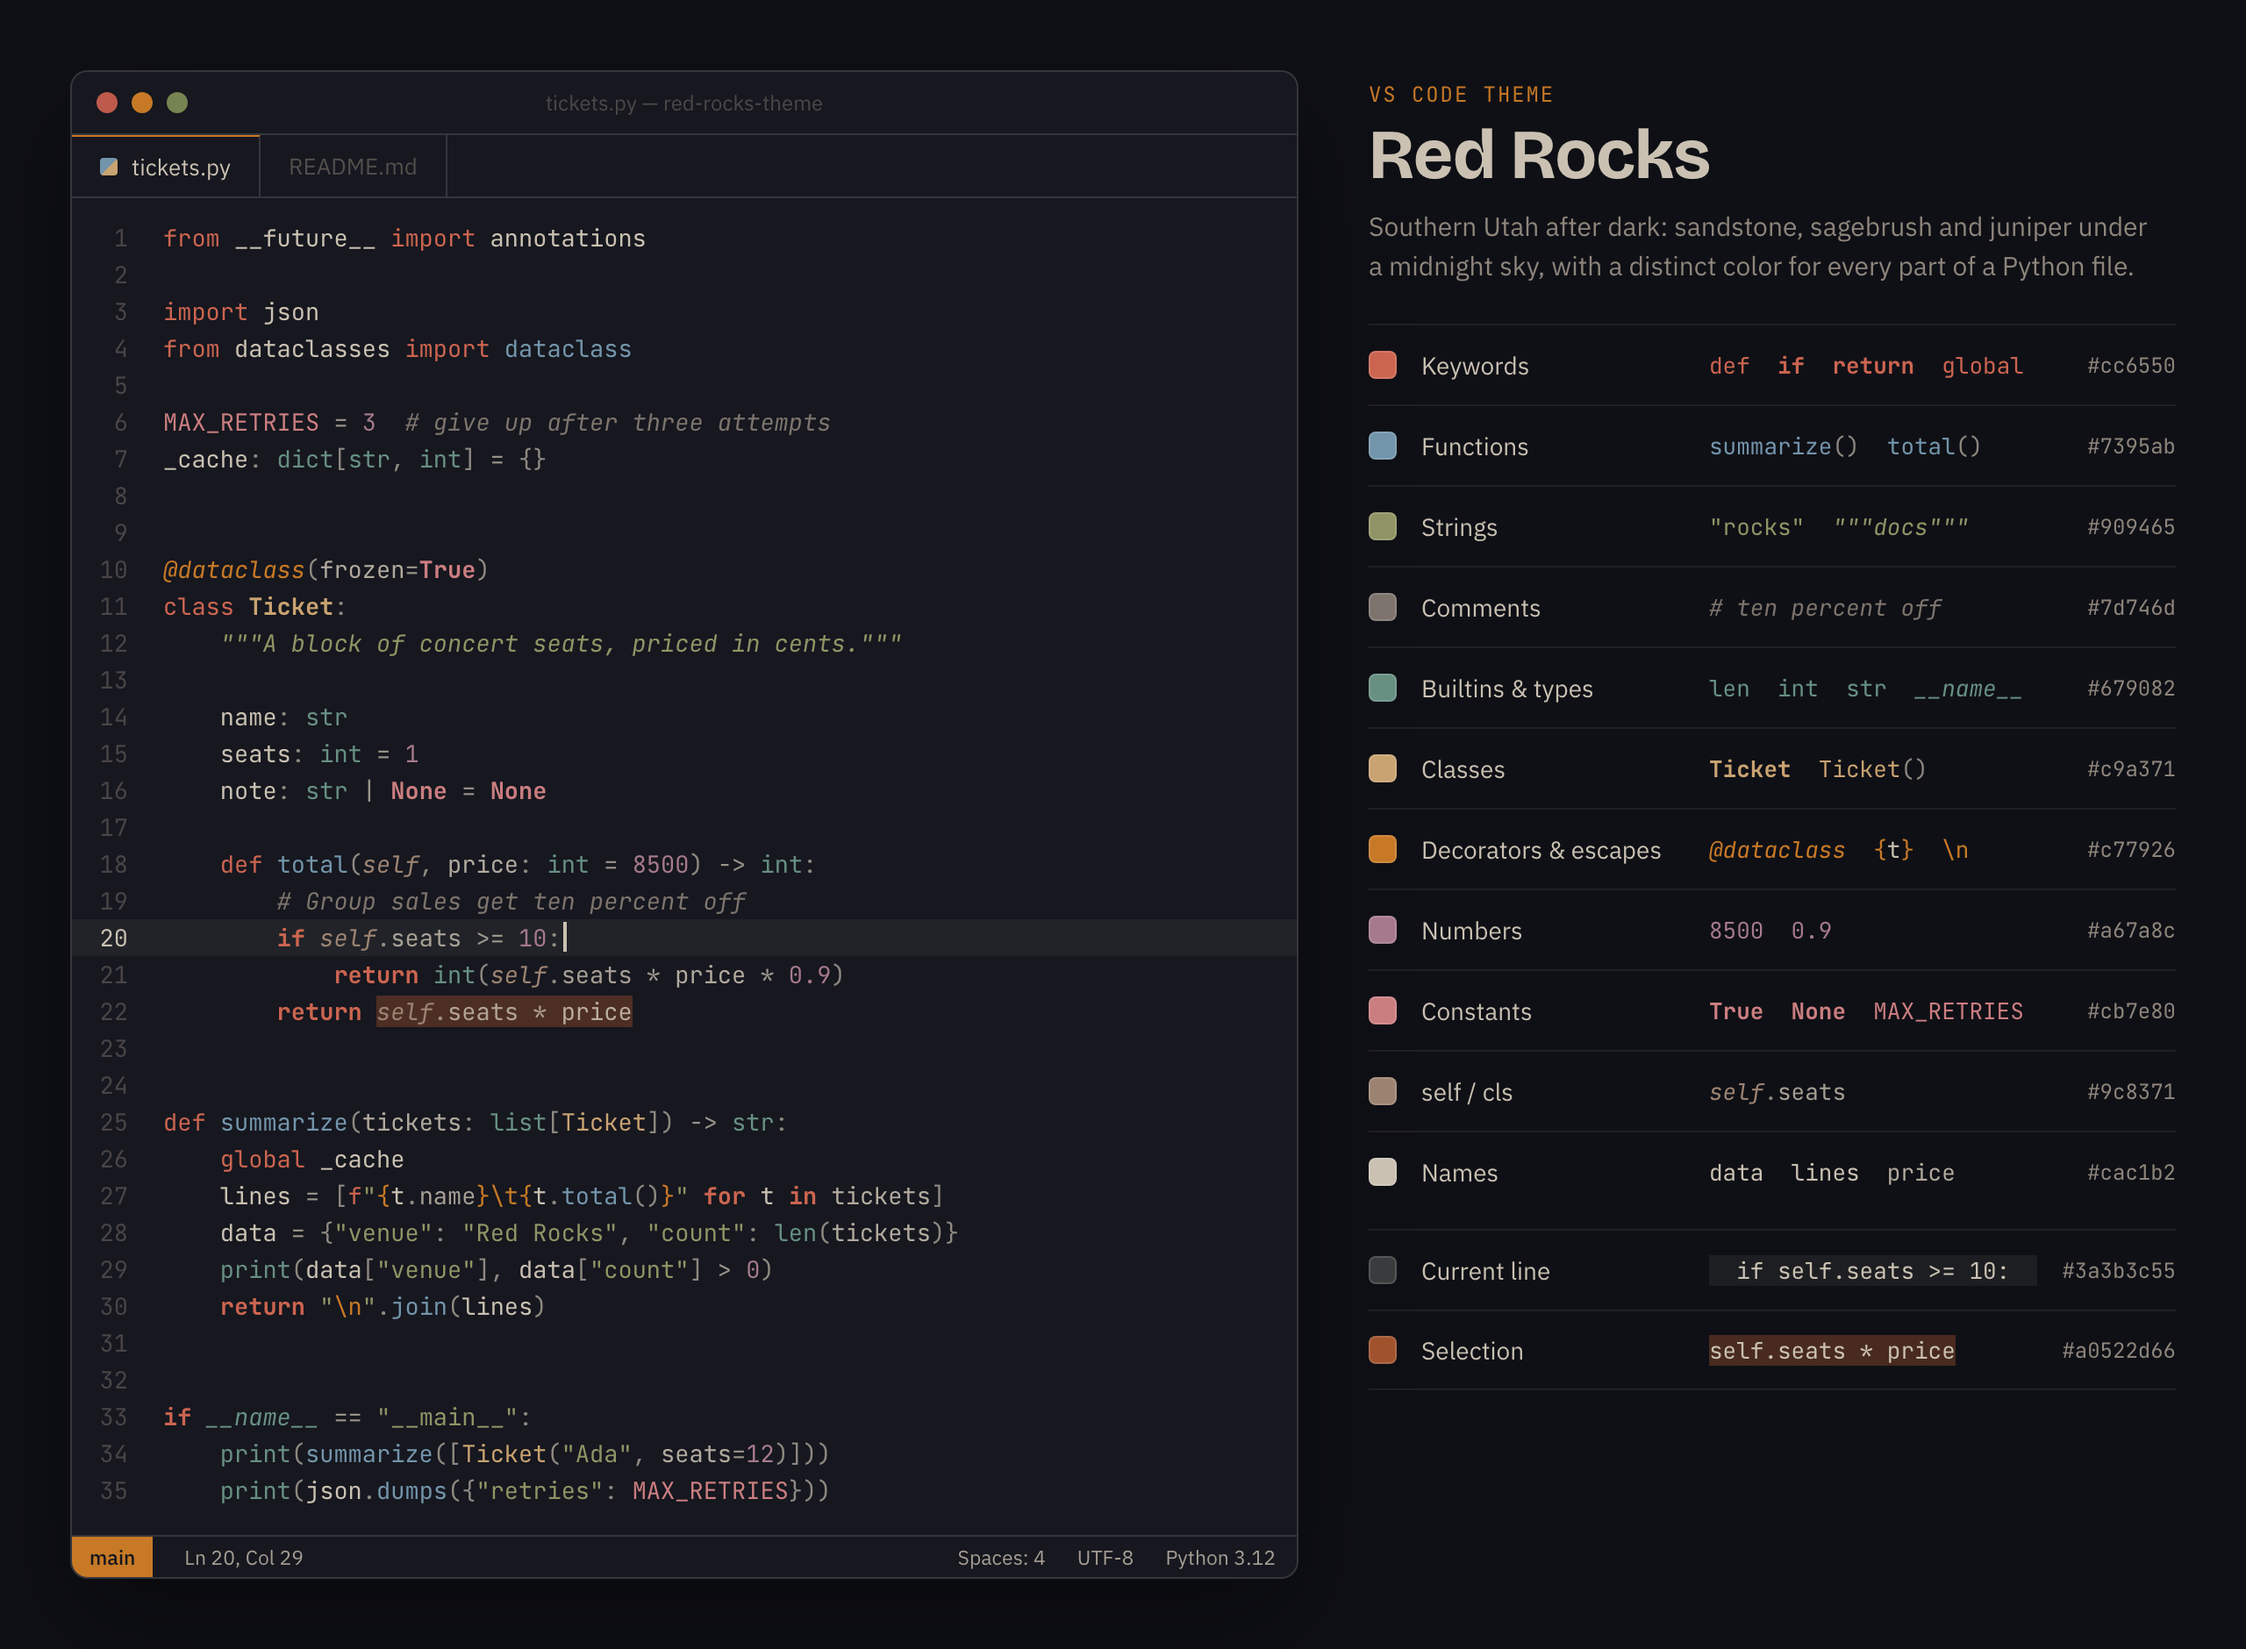
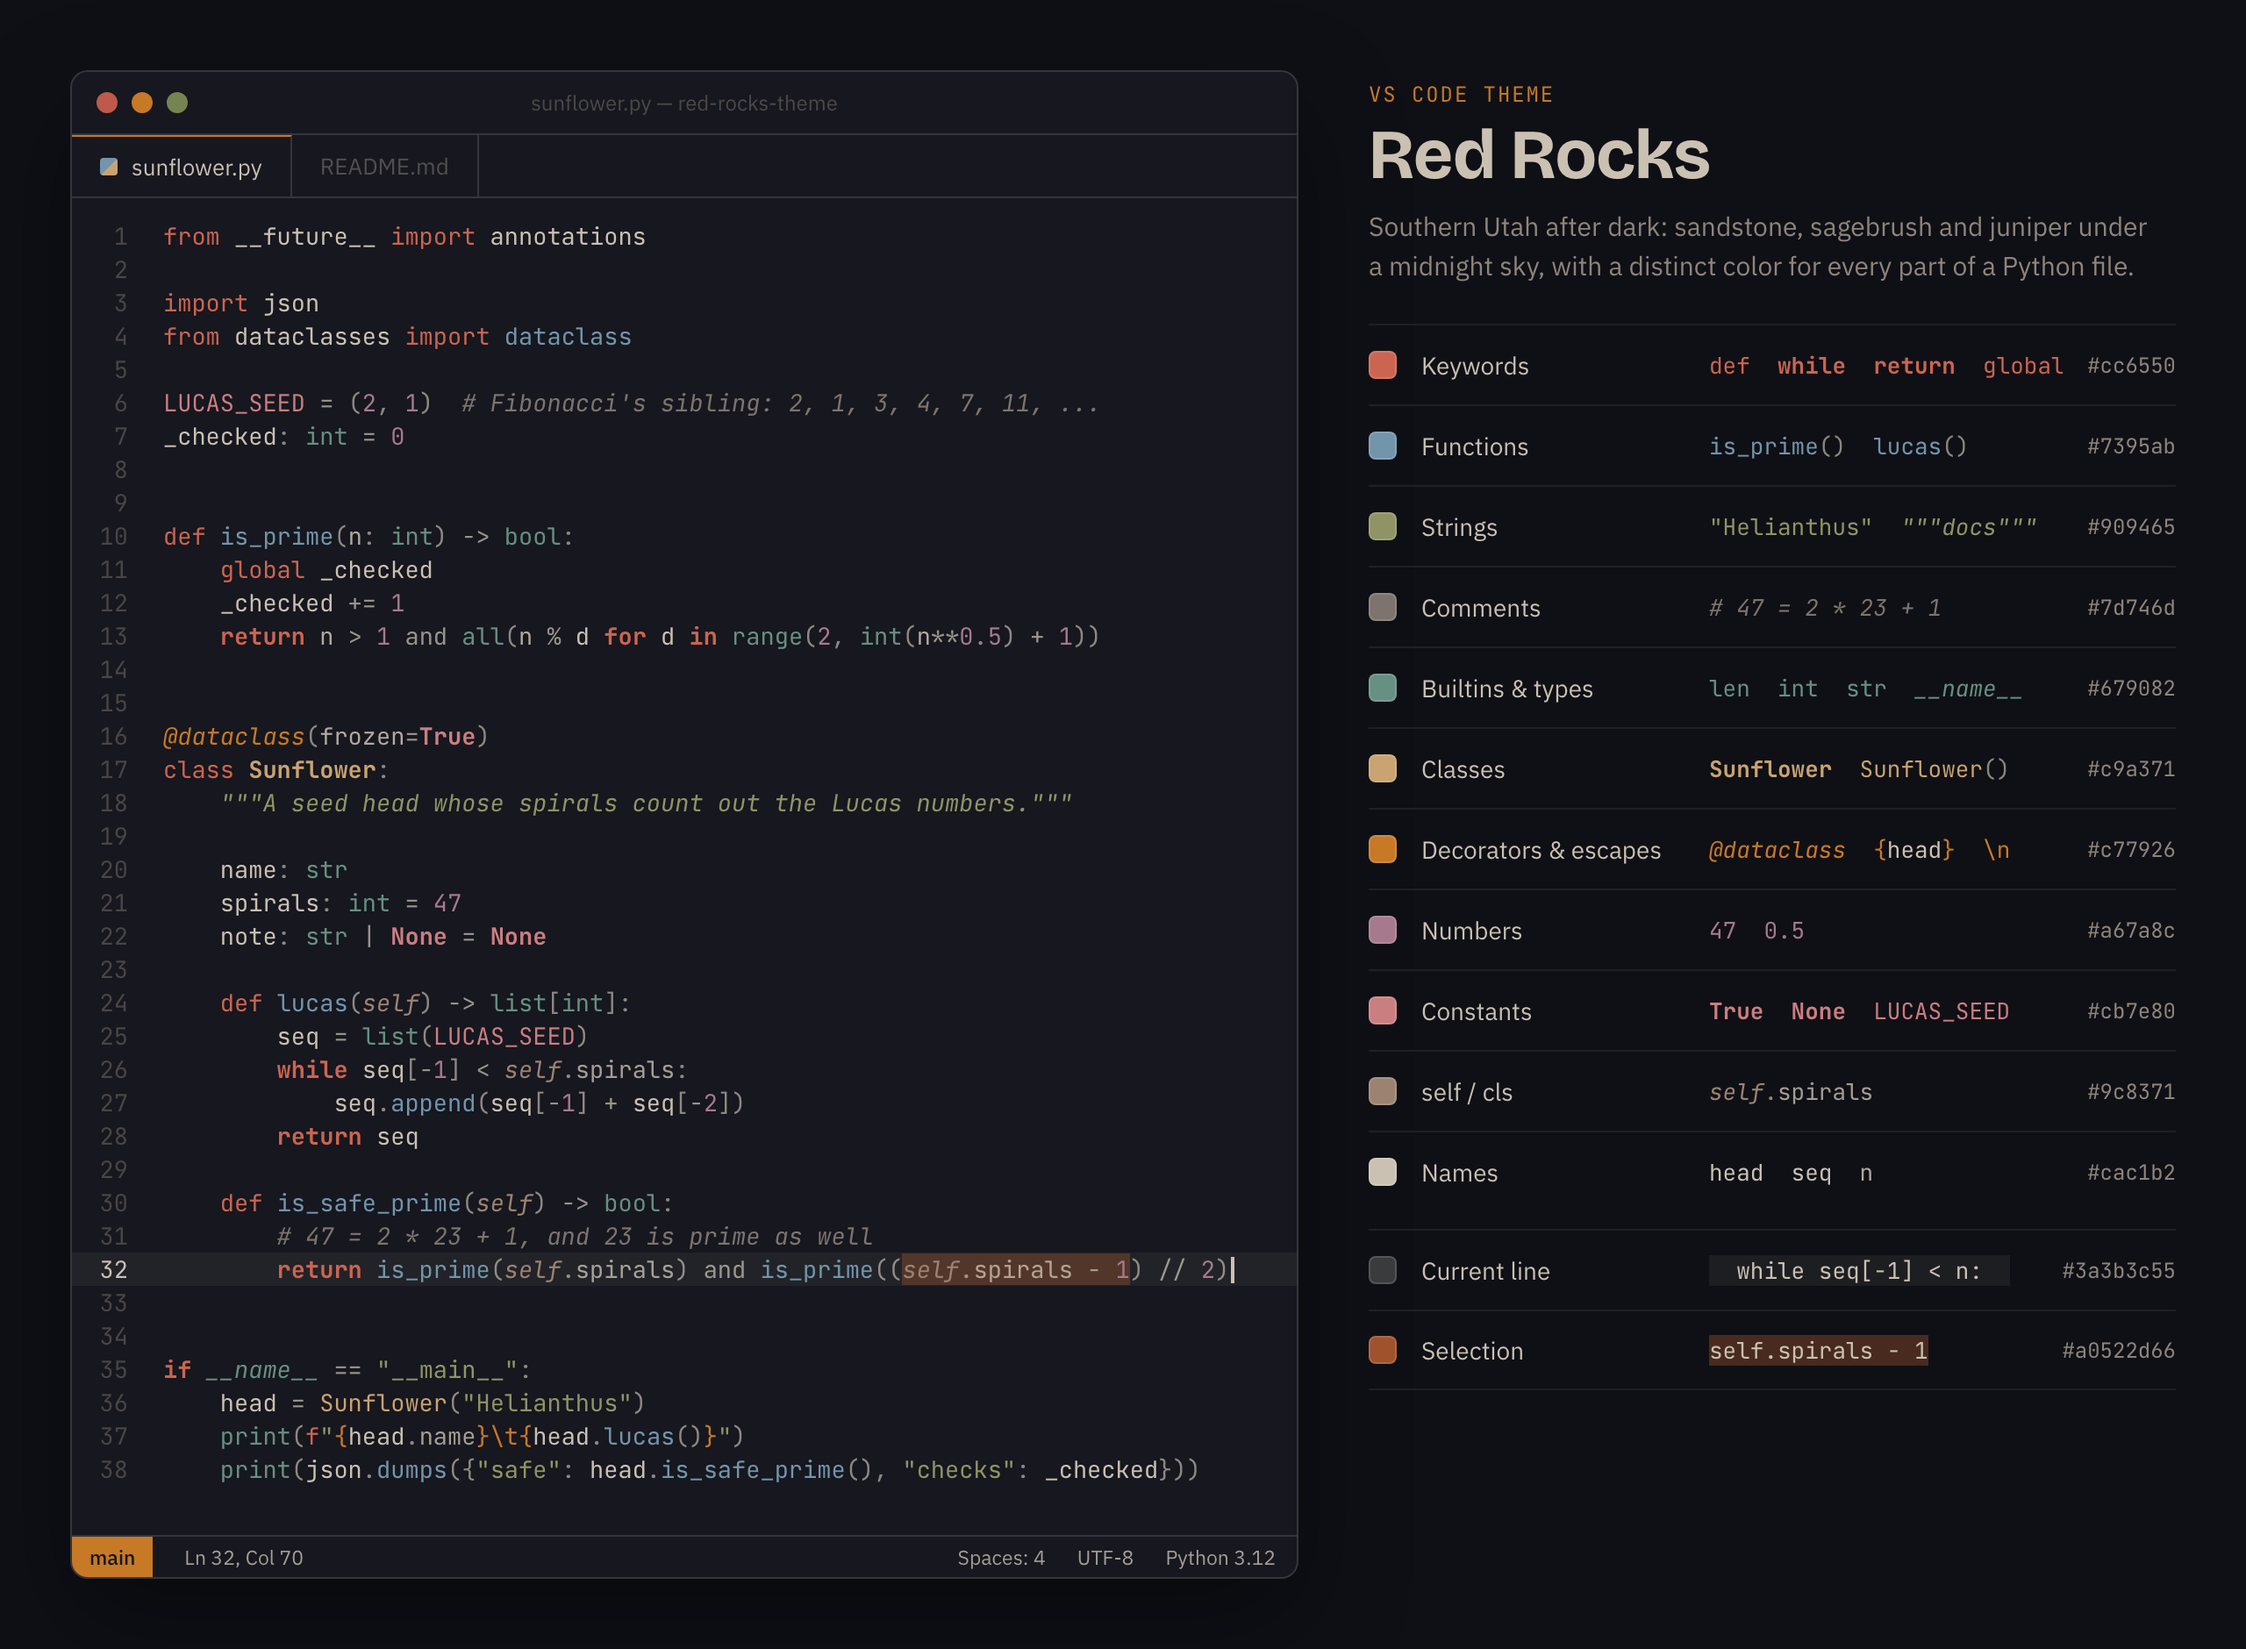
Showcase: show sunflower.py as the example

diff --git a/scripts/showcase/showcase.html b/scripts/showcase/showcase.html
@@ -1,6 +1,6 @@
 <!doctype html>
 <!--
-  Source for images/showcase.png. The code mirrors examples/tickets.py, hand-tokenized
+  Source for images/showcase.png. The code mirrors examples/sunflower.py, hand-tokenized
   with the colors Red Rocks gives each scope (Pylance semantic colors where they win).
   Rebuild with: scripts/render_showcase.sh
 -->
@@ -67,7 +67,7 @@
     padding-block: 12px;
     font-family: var(--font-code);
     font-size: 13.5px;
-    line-height: 21px;
+    line-height: 19px;
     font-variant-ligatures: none;
   }
   .ln { display: flex; white-space: pre; }
@@ -75,7 +75,7 @@
   .gutter { flex: none; width: 52px; padding-right: 20px; text-align: right; color: #7d746d80; }
   .ln.cur .gutter { color: #cac1b2; }
   .sel { background: #a0522d66; }
-  .caret { display: inline-block; width: 2px; height: 17px; margin-left: 1px; vertical-align: -3px; background: #cac1b2; }
+  .caret { display: inline-block; width: 2px; height: 15px; margin-left: 1px; vertical-align: -3px; background: #cac1b2; }
 
   .status {
     display: flex;
@@ -118,16 +118,16 @@
       <span class="dot" style="background:#bd5a4c"></span>
       <span class="dot" style="background:#c77926"></span>
       <span class="dot" style="background:#768451"></span>
-      <span class="name">tickets.py — red-rocks-theme</span>
+      <span class="name">sunflower.py — red-rocks-theme</span>
     </div>
     <div class="tabs">
-      <span class="tab active"><span class="py"></span>tickets.py</span>
+      <span class="tab active"><span class="py"></span>sunflower.py</span>
       <span class="tab inactive">README.md</span>
     </div>
     <div class="code" id="code"></div>
     <div class="status">
       <span class="remote">main</span>
-      <span>Ln 20, Col 29</span>
+      <span>Ln 32, Col 70</span>
       <div class="right"><span>Spaces: 4</span><span>UTF-8</span><span>Python 3.12</span></div>
     </div>
   </section>
@@ -161,52 +161,55 @@ const SRC = [
   "«kw:import» «mod:json»",
   "«kw:from» «mod:dataclasses» «kw:import» «fn:dataclass»",
   "",
-  "«caps:MAX_RETRIES» «op:=» «num:3»  «cmt:# give up after three attempts»",
-  "_cache«punc::» «type:dict»«punc:[»«type:str»«punc:,» «type:int»«punc:]» «op:=» «punc:{}»",
+  "«caps:LUCAS_SEED» «op:=» «punc:(»«num:2»«punc:,» «num:1»«punc:)»  «cmt:# Fibonacci's sibling: 2, 1, 3, 4, 7, 11, ...»",
+  "_checked«punc::» «type:int» «op:=» «num:0»",
+  "",
+  "",
+  "«stor:def» «fn:is_prime»«punc:(»«param:n»«punc::» «type:int»«punc:)» «op:->» «type:bool»«punc::»",
+  "    «glob:global» _checked",
+  "    _checked «op:+=» «num:1»",
+  "    «ctrl:return» «param:n» «op:>» «num:1» «op:and» «bi:all»«punc:(»«param:n» «op:%» d «ctrl:for» d «ctrl:in» «bi:range»«punc:(»«num:2»«punc:,» «type:int»«punc:(»«param:n»«op:**»«num:0.5»«punc:)» «op:+» «num:1»«punc:))»",
   "",
   "",
   "«dec:@dataclass»«punc:(»«param:frozen»«op:=»«const:True»«punc:)»",
-  "«stor:class» «clsdef:Ticket»«punc::»",
-  "    «doc:\"\"\"A block of concert seats, priced in cents.\"\"\"»",
+  "«stor:class» «clsdef:Sunflower»«punc::»",
+  "    «doc:\"\"\"A seed head whose spirals count out the Lucas numbers.\"\"\"»",
   "",
   "    name«punc::» «type:str»",
-  "    seats«punc::» «type:int» «op:=» «num:1»",
+  "    spirals«punc::» «type:int» «op:=» «num:47»",
   "    note«punc::» «type:str» «op:|» «const:None» «op:=» «const:None»",
   "",
-  "    «stor:def» «fn:total»«punc:(»«self:self»«punc:,» «param:price»«punc::» «type:int» «op:=» «num:8500»«punc:)» «op:->» «type:int»«punc::»",
-  "        «cmt:# Group sales get ten percent off»",
-  "        «ctrl:if» «self:self»«punc:.»«attr:seats» «op:>=» «num:10»«punc::»",
-  "            «ctrl:return» «type:int»«punc:(»«self:self»«punc:.»«attr:seats» «op:*» «param:price» «op:*» «num:0.9»«punc:)»",
-  "        «ctrl:return» «!self:self»«!punc:.»«!attr:seats»«!op: * »«!param:price»",
+  "    «stor:def» «fn:lucas»«punc:(»«self:self»«punc:)» «op:->» «type:list»«punc:[»«type:int»«punc:]»«punc::»",
+  "        seq «op:=» «bi:list»«punc:(»«caps:LUCAS_SEED»«punc:)»",
+  "        «ctrl:while» seq«punc:[»«op:-»«num:1»«punc:]» «op:<» «self:self»«punc:.»«attr:spirals»«punc::»",
+  "            seq«punc:.»«fn:append»«punc:(»seq«punc:[»«op:-»«num:1»«punc:]» «op:+» seq«punc:[»«op:-»«num:2»«punc:])»",
+  "        «ctrl:return» seq",
   "",
-  "",
-  "«stor:def» «fn:summarize»«punc:(»«param:tickets»«punc::» «type:list»«punc:[»«cls:Ticket»«punc:])» «op:->» «type:str»«punc::»",
-  "    «glob:global» _cache",
-  "    lines «op:=» «punc:[»«fpre:f»«str:\"»«fb:{»t«punc:.»«attr:name»«fb:}»«esc:\\t»«fb:{»t«punc:.»«fn:total»«punc:()»«fb:}»«str:\"» «ctrl:for» t «ctrl:in» «param:tickets»«punc:]»",
-  "    data «op:=» «punc:{»«str:\"venue\"»«punc::» «str:\"Red Rocks\"»«punc:,» «str:\"count\"»«punc::» «bi:len»«punc:(»«param:tickets»«punc:)}»",
-  "    «bi:print»«punc:(»data«punc:[»«str:\"venue\"»«punc:],» data«punc:[»«str:\"count\"»«punc:]» «op:>» «num:0»«punc:)»",
-  "    «ctrl:return» «str:\"»«esc:\\n»«str:\"»«punc:.»«fn:join»«punc:(»lines«punc:)»",
+  "    «stor:def» «fn:is_safe_prime»«punc:(»«self:self»«punc:)» «op:->» «type:bool»«punc::»",
+  "        «cmt:# 47 = 2 * 23 + 1, and 23 is prime as well»",
+  "        «ctrl:return» «fn:is_prime»«punc:(»«self:self»«punc:.»«attr:spirals»«punc:)» «op:and» «fn:is_prime»«punc:((»«!self:self»«!punc:.»«!attr:spirals»«!op: - »«!num:1»«punc:)» «op:/»«op:/» «num:2»«punc:)»",
   "",
   "",
   "«ctrl:if» «magic:__name__» «op:==» «str:\"__main__\"»«punc::»",
-  "    «bi:print»«punc:(»«fn:summarize»«punc:([»«cls:Ticket»«punc:(»«str:\"Ada\"»«punc:,» «param:seats»«op:=»«num:12»«punc:)]))»",
-  "    «bi:print»«punc:(»«mod:json»«punc:.»«fn:dumps»«punc:({»«str:\"retries\"»«punc::» «caps:MAX_RETRIES»«punc:}))»",
+  "    head «op:=» «cls:Sunflower»«punc:(»«str:\"Helianthus\"»«punc:)»",
+  "    «bi:print»«punc:(»«fpre:f»«str:\"»«fb:{»head«punc:.»«attr:name»«fb:}»«esc:\\t»«fb:{»head«punc:.»«fn:lucas»«punc:()»«fb:}»«str:\"»«punc:)»",
+  "    «bi:print»«punc:(»«mod:json»«punc:.»«fn:dumps»«punc:({»«str:\"safe\"»«punc::» head«punc:.»«fn:is_safe_prime»«punc:(),» «str:\"checks\"»«punc::» _checked«punc:}))»",
 ];
-const CURSOR_LINE = 20;
+const CURSOR_LINE = 32;
 
 // role, chip color, sample tokens (same markup), hex label
 const LEGEND = [
-  ["Keywords", "#cc6550", "«stor:def»  «ctrl:if»  «ctrl:return»  «glob:global»", "#cc6550"],
-  ["Functions", "#7395ab", "«fn:summarize»«punc:()»  «fn:total»«punc:()»", "#7395ab"],
-  ["Strings", "#909465", "«str:\"rocks\"»  «doc:\"\"\"docs\"\"\"»", "#909465"],
-  ["Comments", "#7d746d", "«cmt:# ten percent off»", "#7d746d"],
+  ["Keywords", "#cc6550", "«stor:def»  «ctrl:while»  «ctrl:return»  «glob:global»", "#cc6550"],
+  ["Functions", "#7395ab", "«fn:is_prime»«punc:()»  «fn:lucas»«punc:()»", "#7395ab"],
+  ["Strings", "#909465", "«str:\"Helianthus\"»  «doc:\"\"\"docs\"\"\"»", "#909465"],
+  ["Comments", "#7d746d", "«cmt:# 47 = 2 * 23 + 1»", "#7d746d"],
   ["Builtins & types", "#679082", "«bi:len»  «type:int»  «type:str»  «magic:__name__»", "#679082"],
-  ["Classes", "#c9a371", "«clsdef:Ticket»  «cls:Ticket»«punc:()»", "#c9a371"],
-  ["Decorators & escapes", "#c77926", "«dec:@dataclass»  «fb:{»t«fb:}»  «esc:\\n»", "#c77926"],
-  ["Numbers", "#a67a8c", "«num:8500»  «num:0.9»", "#a67a8c"],
-  ["Constants", "#cb7e80", "«const:True»  «const:None»  «caps:MAX_RETRIES»", "#cb7e80"],
-  ["self / cls", "#9c8371", "«self:self»«punc:.»«attr:seats»", "#9c8371"],
-  ["Names", "#cac1b2", "data  lines  «param:price»", "#cac1b2"],
+  ["Classes", "#c9a371", "«clsdef:Sunflower»  «cls:Sunflower»«punc:()»", "#c9a371"],
+  ["Decorators & escapes", "#c77926", "«dec:@dataclass»  «fb:{»head«fb:}»  «esc:\\n»", "#c77926"],
+  ["Numbers", "#a67a8c", "«num:47»  «num:0.5»", "#a67a8c"],
+  ["Constants", "#cb7e80", "«const:True»  «const:None»  «caps:LUCAS_SEED»", "#cb7e80"],
+  ["self / cls", "#9c8371", "«self:self»«punc:.»«attr:spirals»", "#9c8371"],
+  ["Names", "#cac1b2", "head  seq  «param:n»", "#cac1b2"],
 ];
 const SURFACES = [
   ["Current line", "#3a3b3c", "#3a3b3c55"],
@@ -264,7 +267,7 @@ SURFACES.forEach(([role, chip, hex], i) => {
   const row = el("div", "row" + (i === 0 ? " group" : ""));
   const c = el("span", "chip"); c.style.background = chip;
   const s = el("span", "sample");
-  const bar = el("span", null, i === 0 ? "  if self.seats >= 10:  " : "self.seats * price");
+  const bar = el("span", null, i === 0 ? "  while seq[-1] < n:  " : "self.spirals - 1");
   bar.style.background = hex;
   bar.style.color = "#cac1b2";
   s.append(bar);
